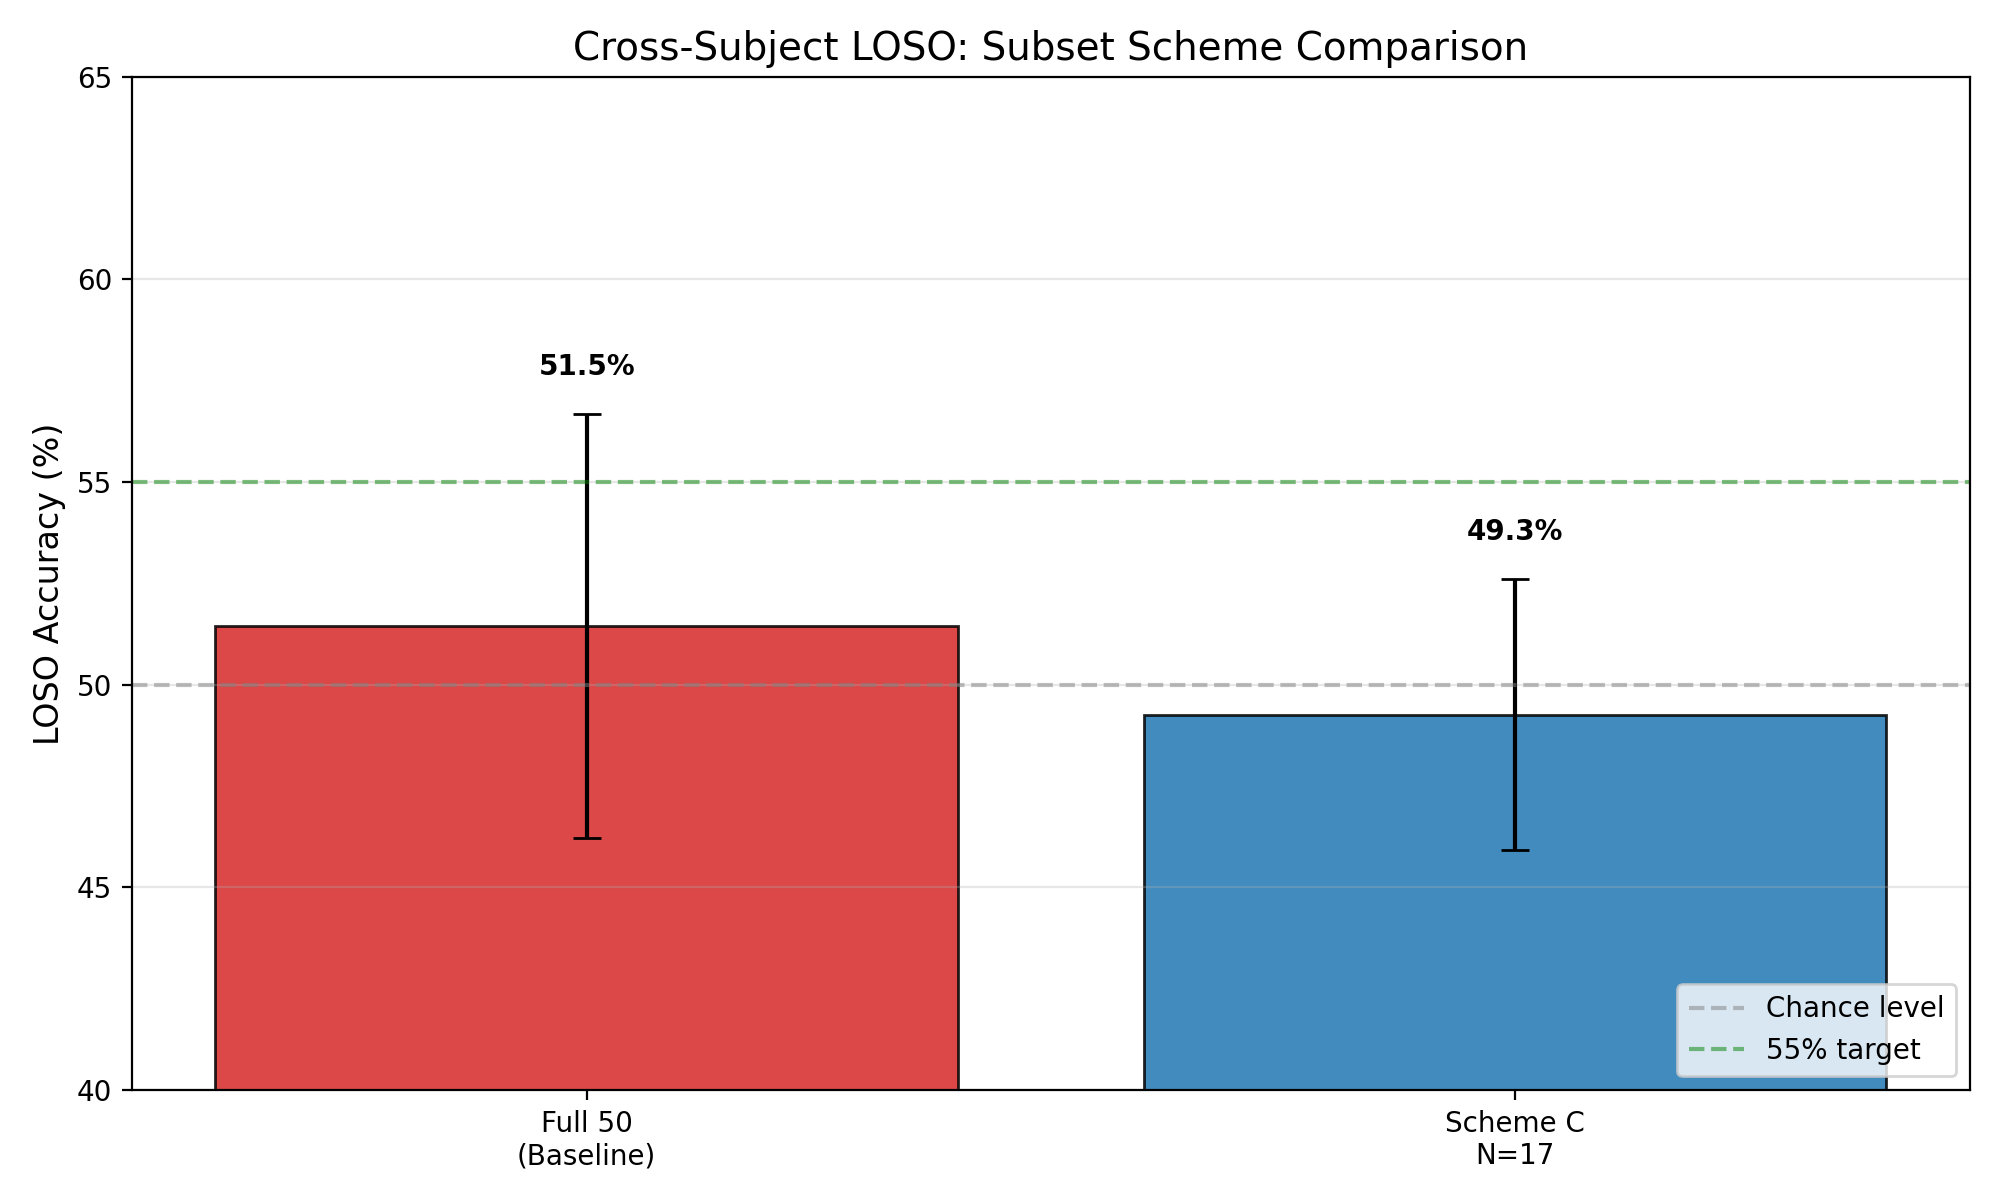
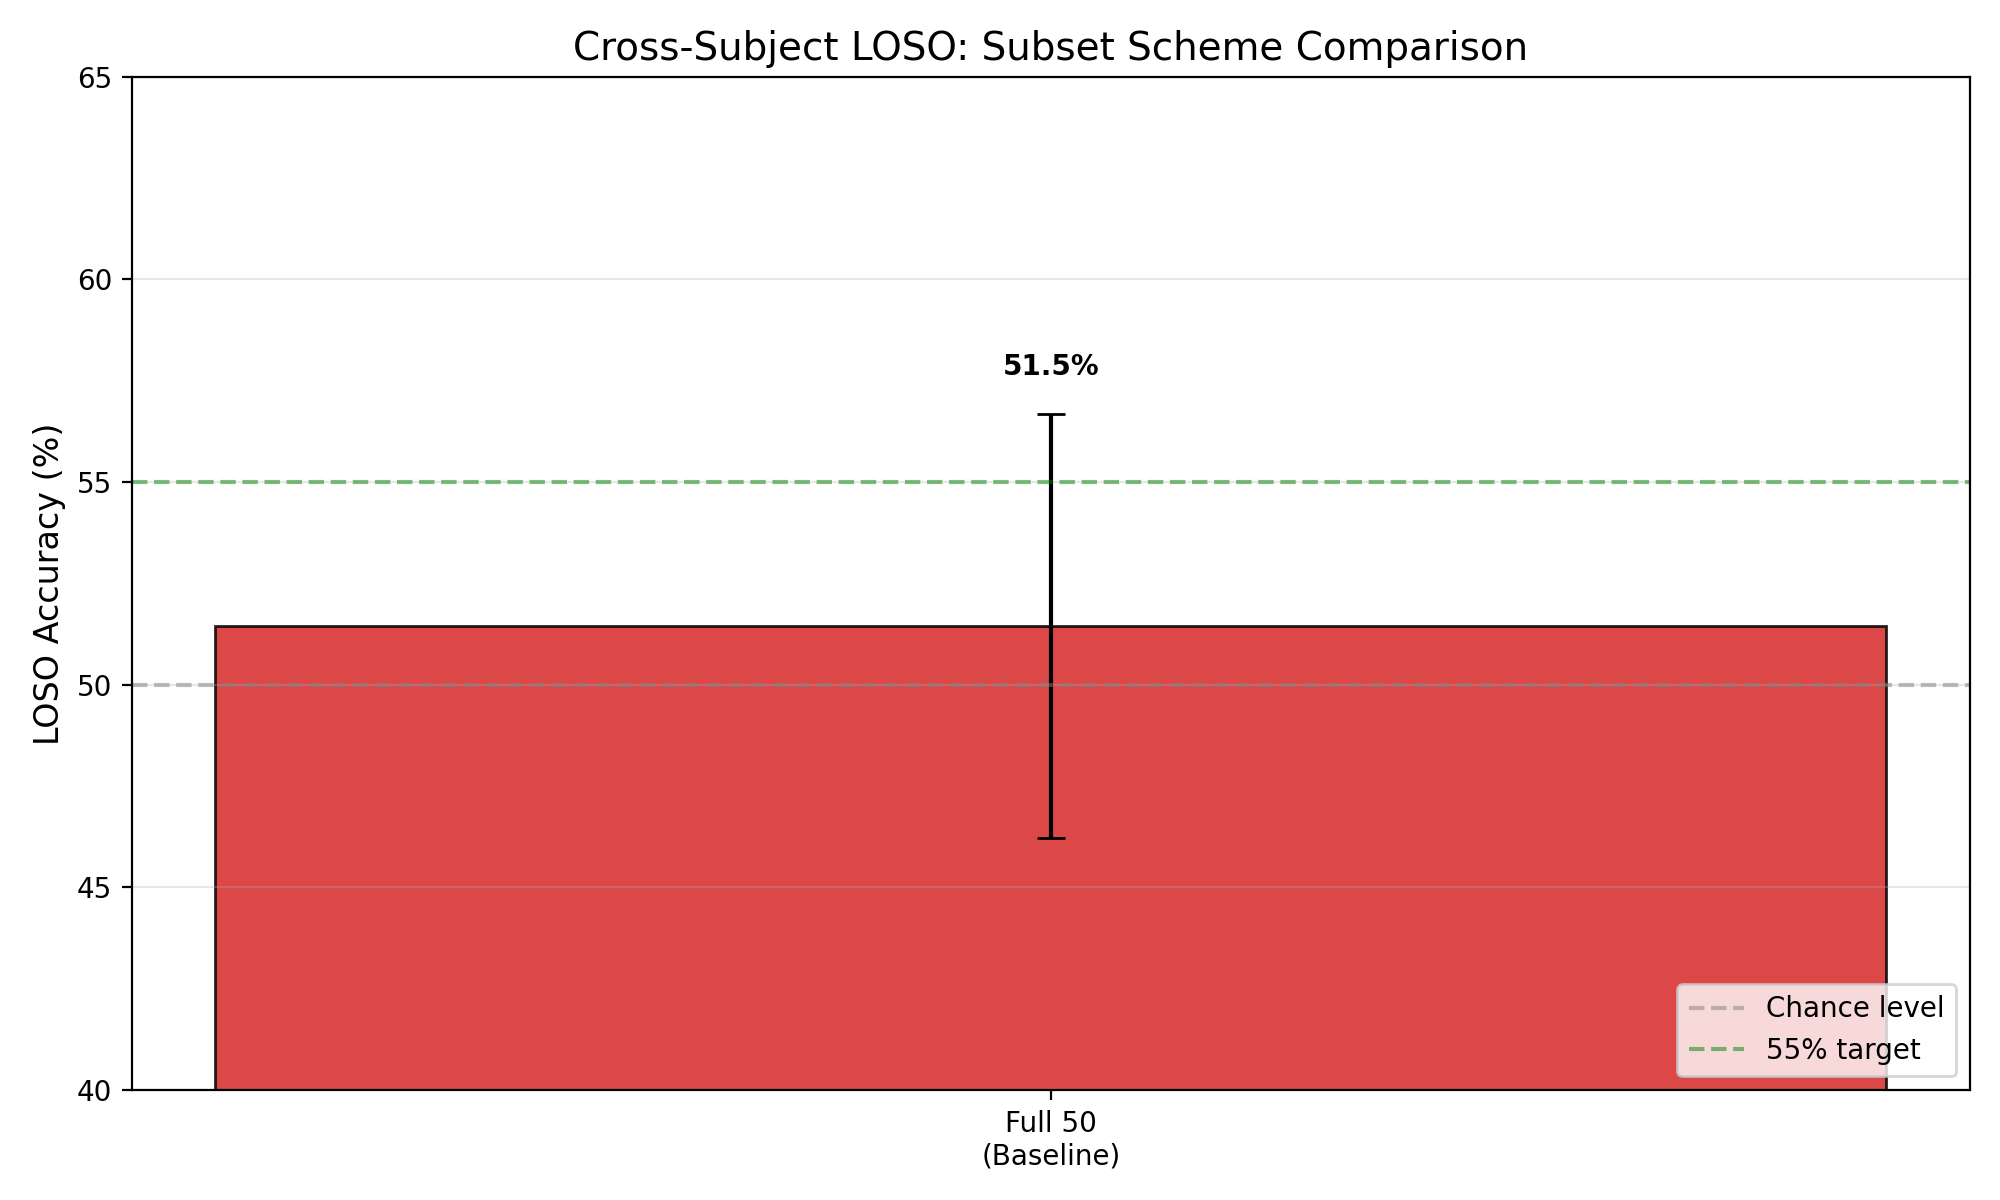
after cleanC

diff --git a/results/schemes/SCHEME_LOSO_REPORT.md b/results/schemes/SCHEME_LOSO_REPORT.md
@@ -13,3 +13,24 @@
 
 ## 方案对比总表
 
+| Scheme             |   N | Mean_Acc   | Std_Acc   | Criteria     | vs_Full50   |
+|:-------------------|----:|:-----------|:----------|:-------------|:------------|
+| Full 50 (Baseline) |  50 | 51.46%     | 5.23%     | All subjects | —           |
+
+## 详细结果
+
+## 结论与讨论
+
+1. **Scheme C（Subcortical Focus）是主推方案**
+   - N=17 在统计效力和队列同质性之间取得了最佳平衡
+   - 病灶位置（Subcortical）具有最强的神经生理学解释：皮层运动区保留但皮质脊髓束受损，Aff+Align 的侧化重映射恰好利用了这一可塑性
+
+2. **Scheme A（Damage Exclusion）用于稳健性验证**
+   - N=30 的结果可验证：子集提升是否依赖于过度严格的筛选
+
+3. **Scheme B（Tightened Prior）仅作参考**
+   - N=7 样本量过小，结果可能不稳定，不建议作为论文主要结论
+
+4. **55% 天花板问题**
+   - 即使在最优子集上，预估 LOSO 仍难以突破 55%
+   - 建议后续从模型架构（更长的训练、学习率调度、不同 backbone）或数据增强角度进一步优化
